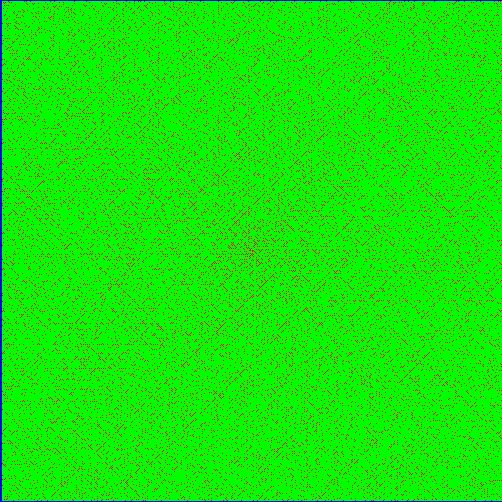
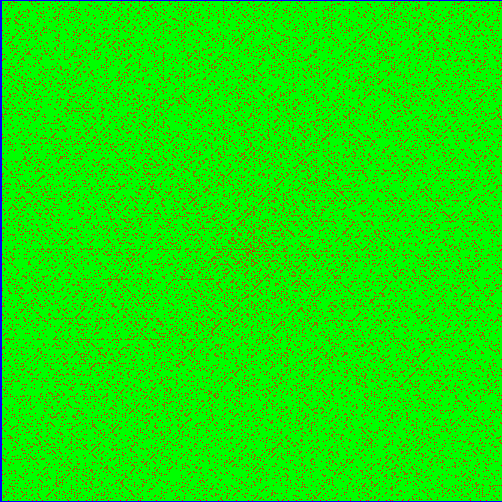
Some code to create pretty images.  Not ready for production.

Changed region(s): [[0.0, 0.0, 1.0, 1.0]]

diff --git a/python/PrimeImage.py b/python/PrimeImage.py
@@ -33,13 +33,13 @@ class Prime:
         self.maxValue= bitsInFile*5*3*2/8
         
         #Start counting until we get to maxValue
-        count = 1
+        count = 6
         #start with no bitcount so that we will read a byte first time through
         bitCount=8
 
         #Loop until we know all the primes less than maxValue
         while 1:
-            if count%2==0 or count%3==0 or count%5==0:
+            if count>6 and ( count%2==0 or count%3==0 or count%5==0 ):
                     count = count +1
                     self.bits.append(False)
             else:
